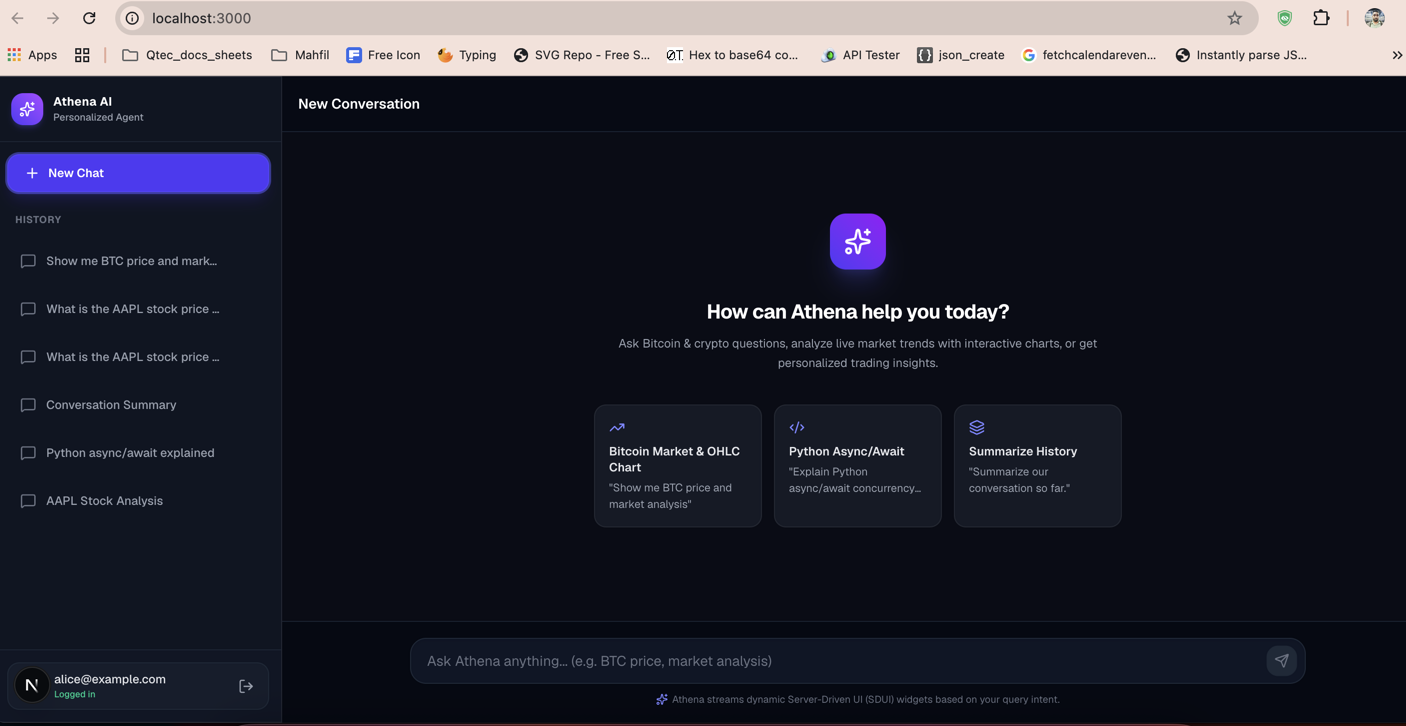
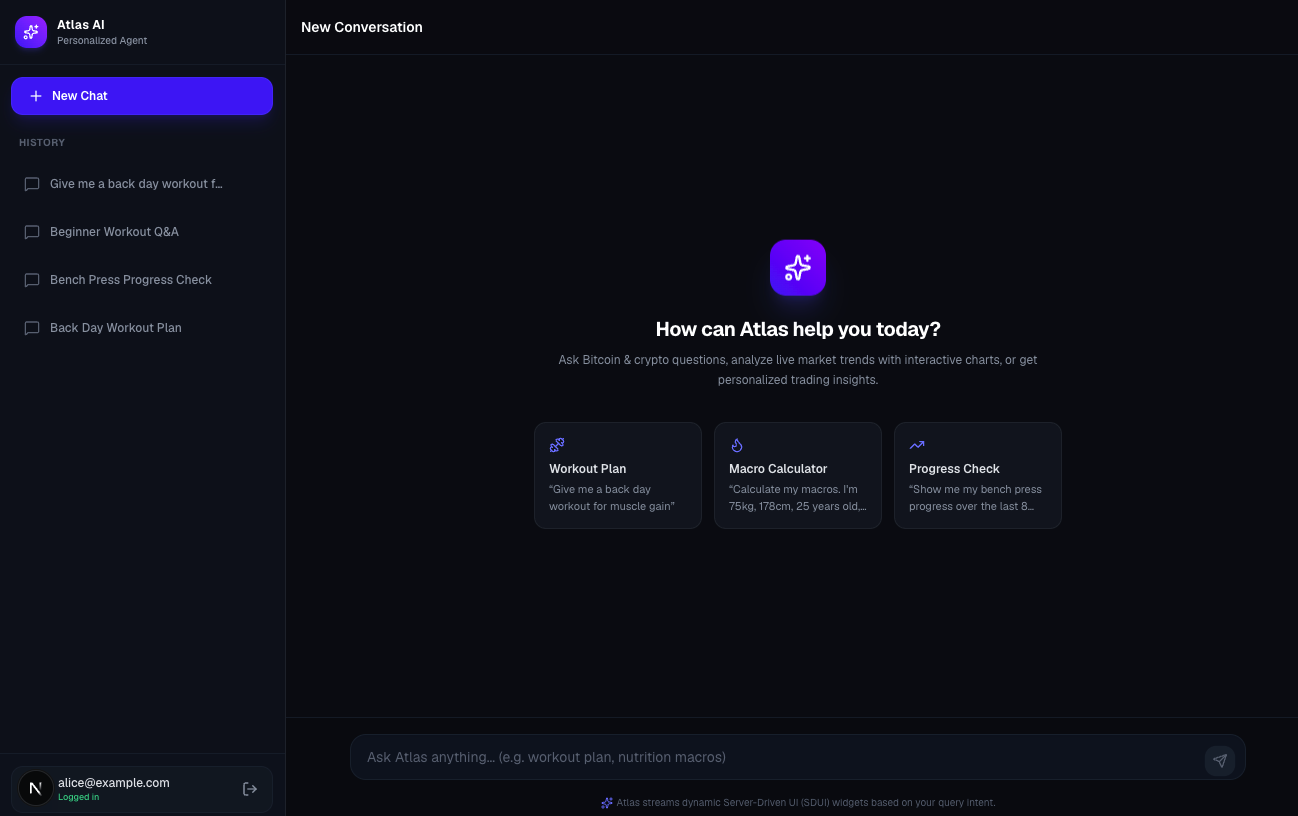
docs: update project documentation screenshots and README content

diff --git a/README.md b/README.md
@@ -29,6 +29,30 @@ Atlas remembers your fitness goals, equipment, training history, and preferences
 
 ---
 
+## 🖼 Application Showcase & Screenshots
+
+<div align="center">
+
+### 1. **Atlas AI Assistant & Real-Time Chat Interface**
+![Atlas AI Chat Interface](screenshorts/image_1.png)
+*Interactive chat window featuring multi-turn conversation memory, stream status indicators, and prompt recommendations.*
+
+<br/>
+
+### 2. **Server-Driven UI (SDUI) — Interactive Charts & Analytics**
+![Server-Driven UI Candlestick Widget](screenshorts/image_2.png)
+*Dynamic SDUI widget rendering interactive by the LangGraph backend.*
+
+<br/>
+
+### 3. **Authentication & Session History Management**
+![Authentication & Session Sidebar](screenshorts/image_3.png)
+*JWT-authenticated user dashboard with persistent thread history, session switching, and single-click chat deletion.*
+
+</div>
+
+---
+
 ## 🔥 Key Technical Highlights
 
 - 🧠 **LangGraph Stateful Agent**: 5-node DAG — `llm_decision` → `workout` / `nutrition` / `progress` / `summary` / `general`. Each node is a domain-specialized Gemini invocation.
